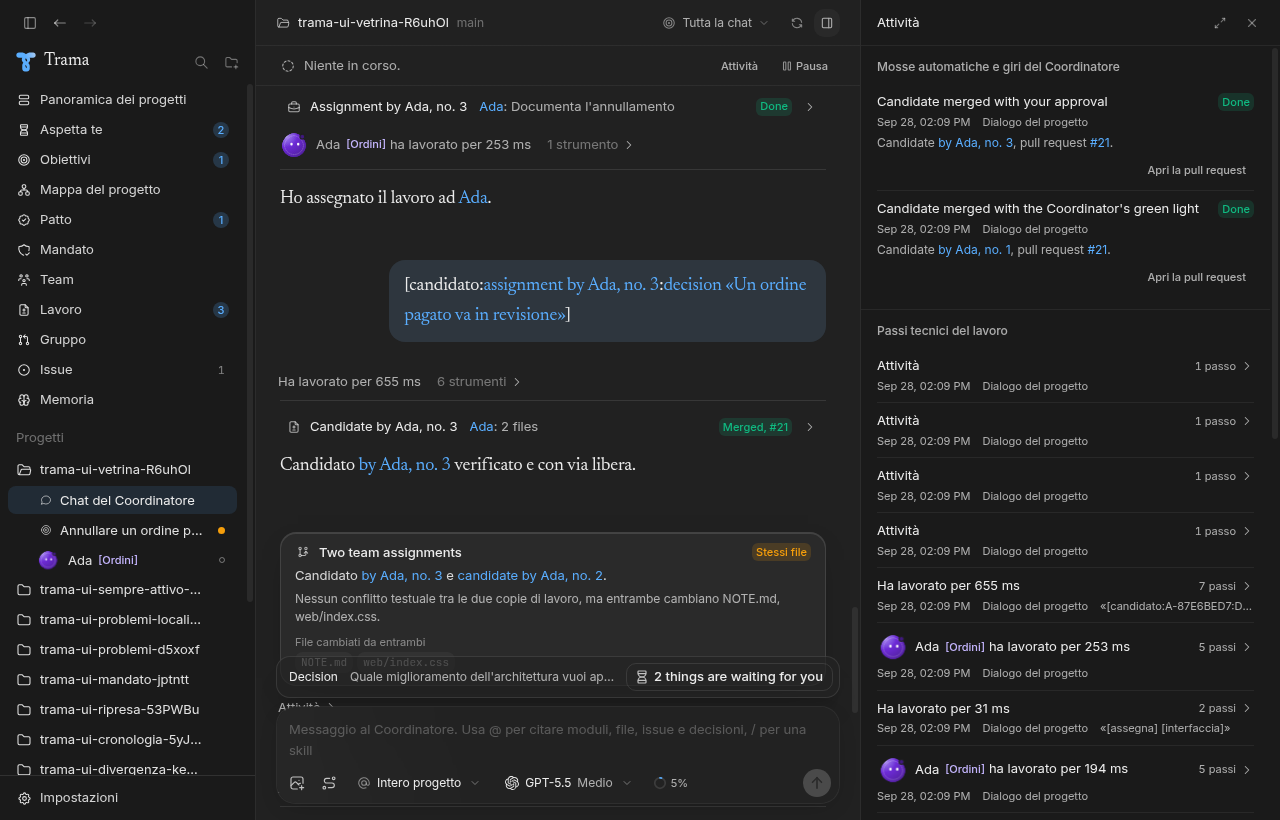
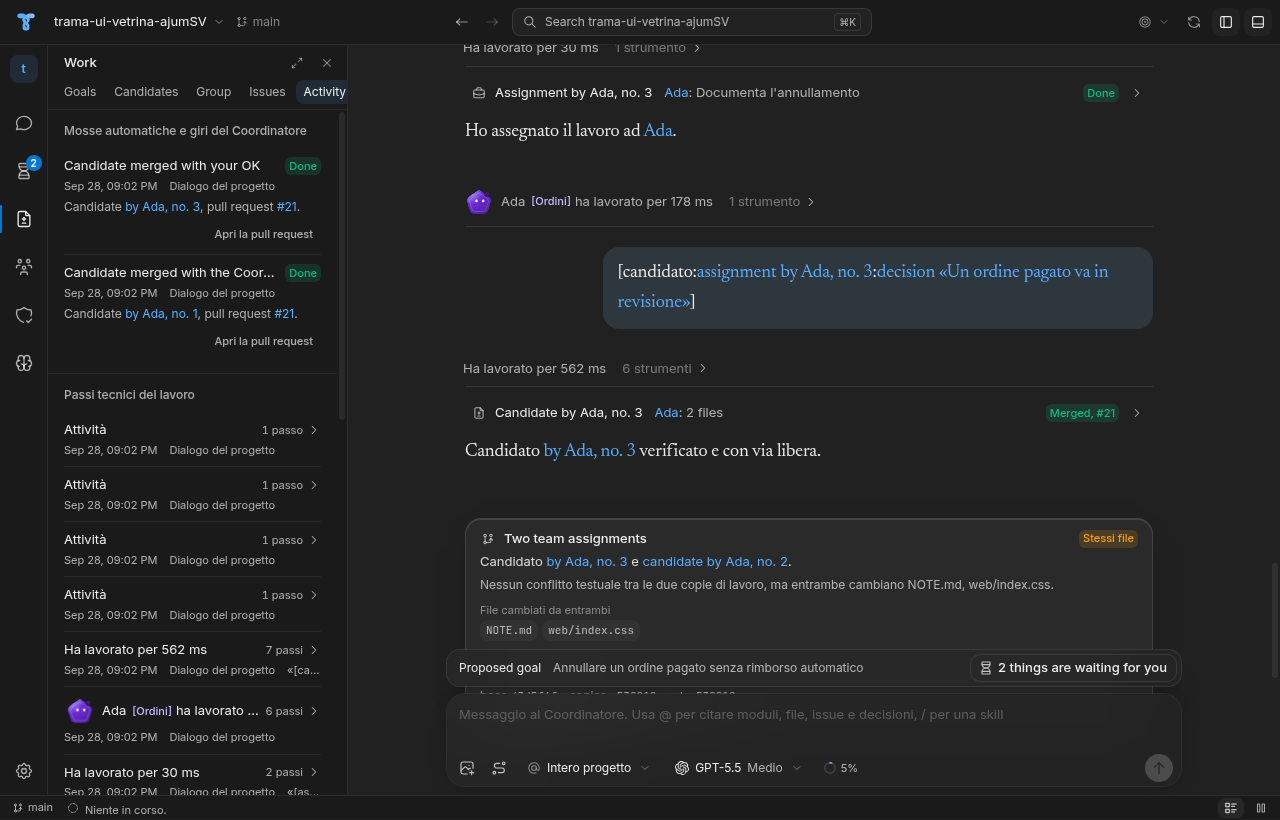
fix(app): keep the English merge line of Activity as short as the Italian one
In the narrower side bar of the new window "Candidate merged with your
approval" was cut; "with your OK" matches the Italian "con il tuo ok".
The screenshots of the shared texts come from the new window.

Refs #301

Claude-Session: https://claude.ai/code/session_01FVquhcTopSwJ9i9fmwPLHJ

diff --git a/app/src/shared/messages/shared.en.ts b/app/src/shared/messages/shared.en.ts
@@ -82,7 +82,7 @@ export const sharedEn: Record<keyof typeof sharedIt, string> = {
 
   // Activity (Q6, A05, A06, A08, issue #247)
   "shared.activity.merge.byCoordinator": "with the Coordinator's green light",
-  "shared.activity.merge.byPerson": "with your approval",
+  "shared.activity.merge.byPerson": "with your OK",
   "shared.activity.merge.merged": "Candidate merged {authority}",
   "shared.activity.merge.stopped": "Candidate merge stopped",
   "shared.activity.merge.failed": "Candidate merge failed",
